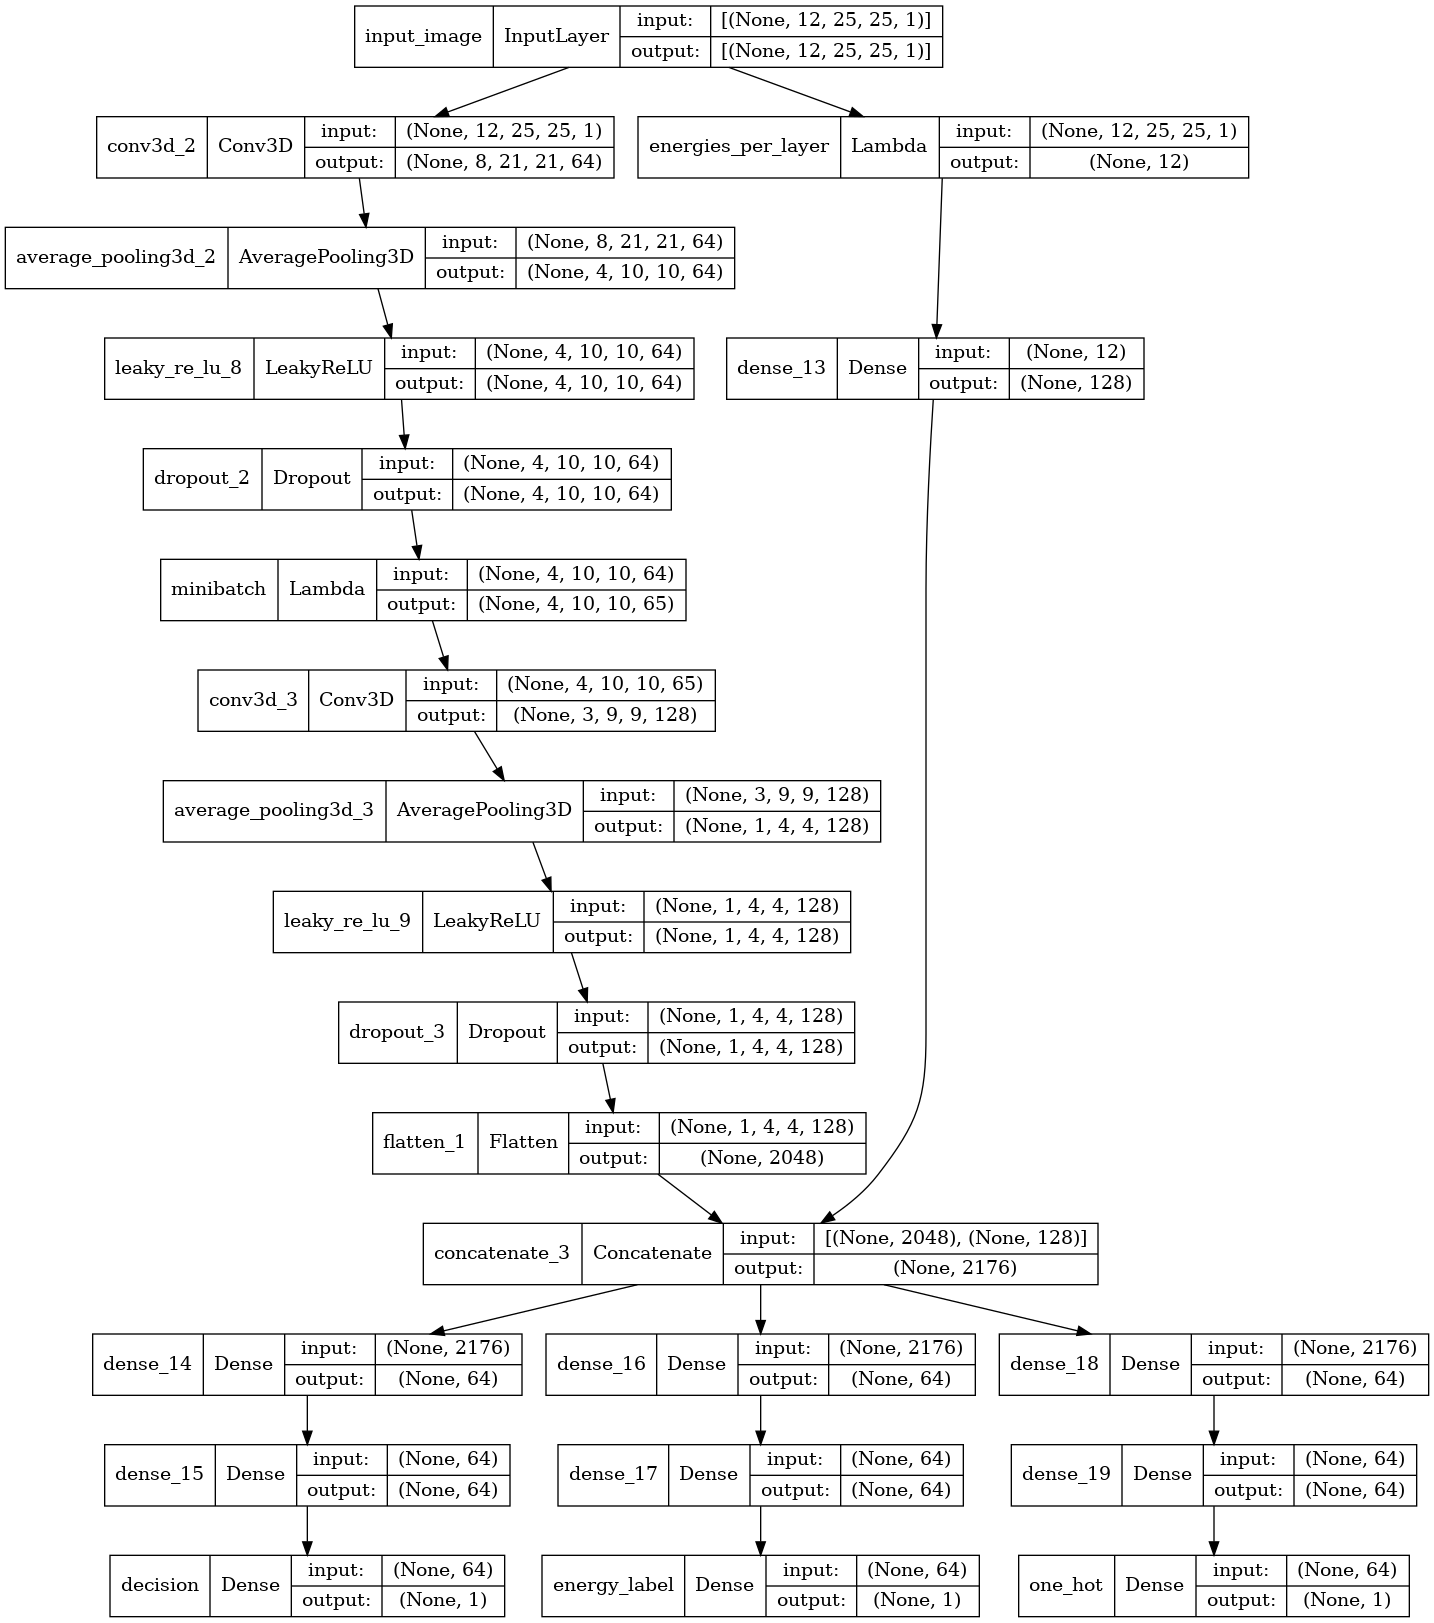
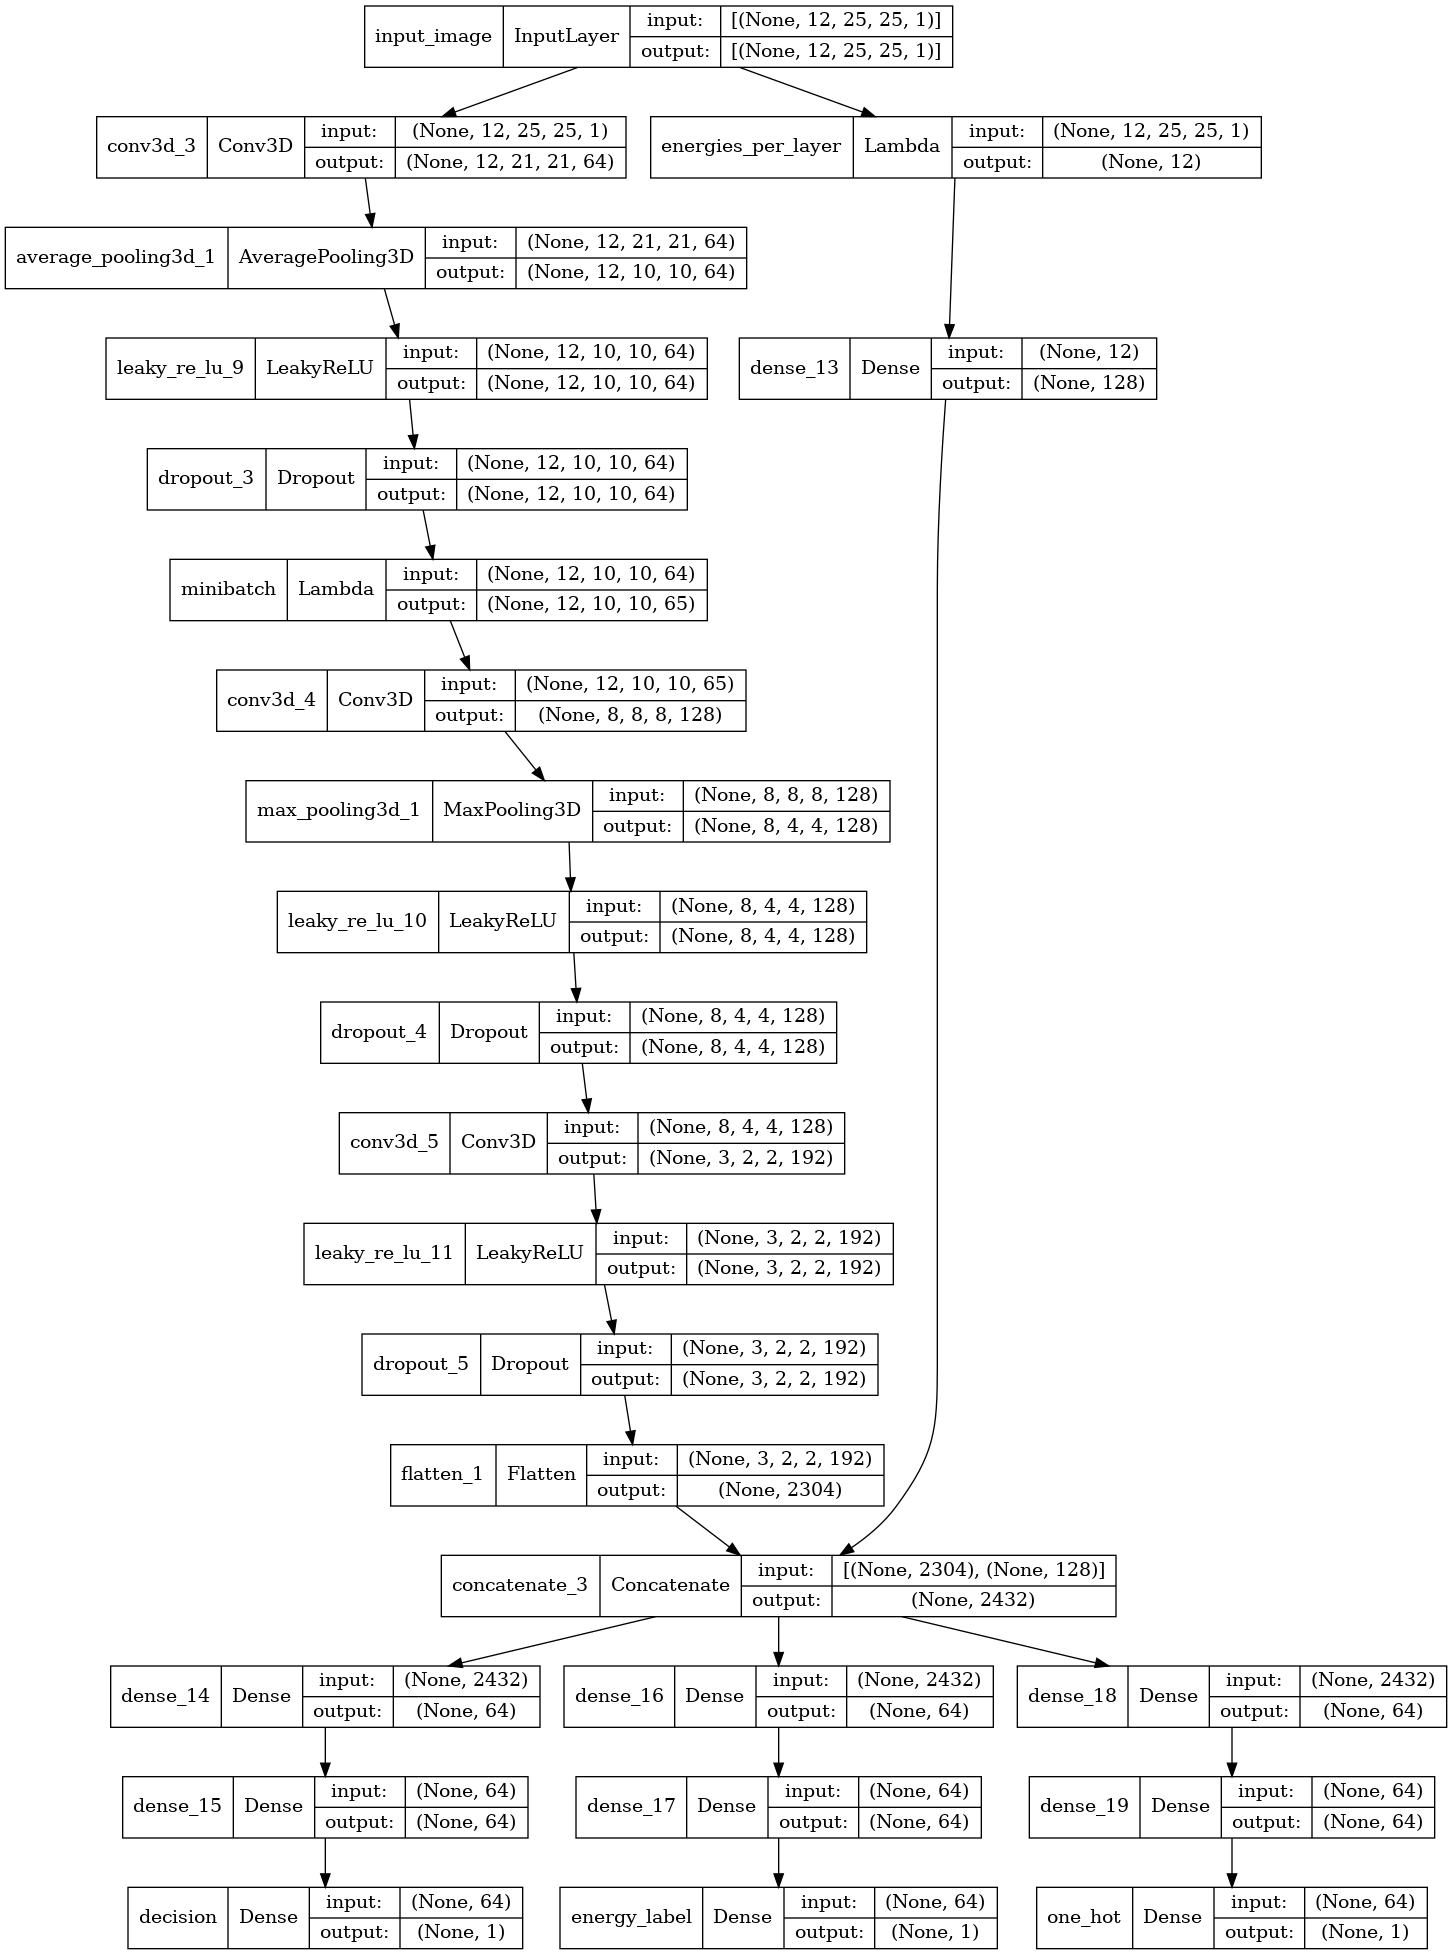
previous commit was the best ever. Now added last conv3D, toward convolution only about single layer

Changed region(s): [[0.0, 0.0, 1.0, 1.0], [0.5216, 0.154, 0.7978, 0.3081]]

diff --git a/EM_shower_simulator/make_models_D.py b/EM_shower_simulator/make_models_D.py
@@ -223,7 +223,7 @@ def make_discriminator_model():
     categorizes the labels in N_CLASSES * classes.
     """
     N_FILTER = 64
-    KERNEL = (5, 5, 5)
+    KERNEL = (1, 5, 5)
     KERNEL_1 = (3, 3, 3)
     KERNEL_2 = (2, 2, 2)
     # padding="same" add a 0 to borders, "valid" use only available data !
@@ -250,23 +250,23 @@ def make_discriminator_model():
 
     discr = Conv3D(N_FILTER, KERNEL, use_bias=False)(in_image)#in_image
     logger.info(discr.get_shape())
-    discr = AveragePooling3D(pool_size = (2,2,2), padding ="valid")(discr)
+    discr = AveragePooling3D(pool_size = (1,2,2), padding ="valid")(discr)
     discr = LeakyReLU()(discr)
     discr = Dropout(0.3)(discr)
 
     minibatch = Lambda(minibatch_stddev_layer, name="minibatch")(discr)
     logger.info(f"Minibatch shape: {discr.get_shape()}")
 
-    discr = Conv3D(2*N_FILTER, (2,2,2) , padding="valid", use_bias=False)(minibatch)
-    discr = MaxPooling3D(pool_size = (2,2,2) , padding ="valid")(discr)
+    discr = Conv3D(2*N_FILTER, (5,3,3) , padding="valid", use_bias=False)(minibatch)
+    discr = MaxPooling3D(pool_size = (1,2,2) , padding ="valid")(discr)
     logger.info(discr.get_shape())
     discr = LeakyReLU()(discr)
     discr = Dropout(0.3)(discr)
 
-    # discr = Conv3D(3*N_FILTER, (2,2,2), padding="same", use_bias=False)(discr)
-    # discr = MaxPooling3D(pool_size = (2,2,2) , padding ="same")(discr)
-    # discr = LeakyReLU()(discr)
-    # discr = Dropout(0.3)(discr)
+    discr = Conv3D(3*N_FILTER, (6,3,3), padding="valid", use_bias=False)(discr)
+    #discr = MaxPooling3D(pool_size = (2,2,2) , padding ="same")(discr)
+    discr = LeakyReLU()(discr)
+    discr = Dropout(0.3)(discr)
 
     # minibatch = Lambda(minibatch_stddev_layer, name="minibatch")(discr)
     # logger.info(f"Minibatch shape: {minibatch.get_shape()}")
